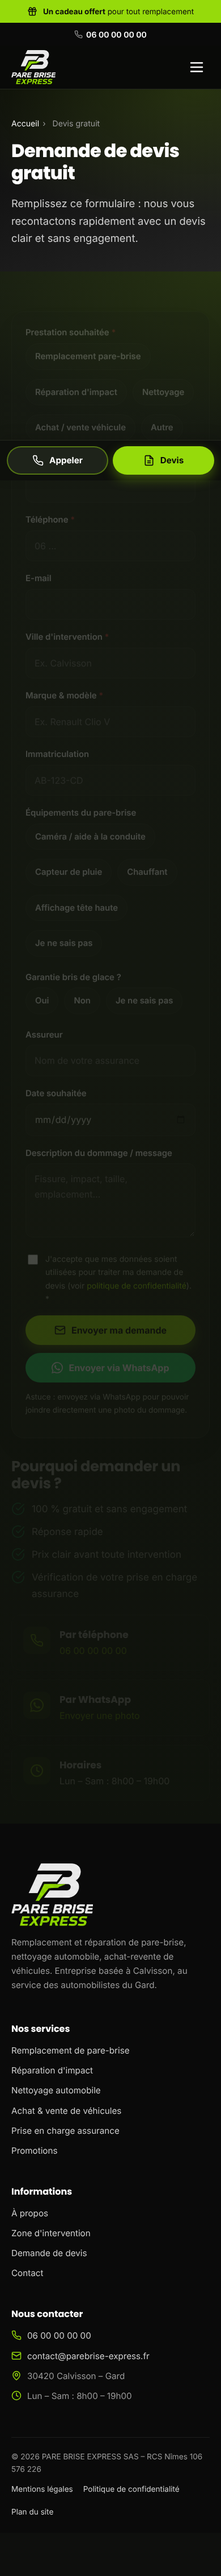
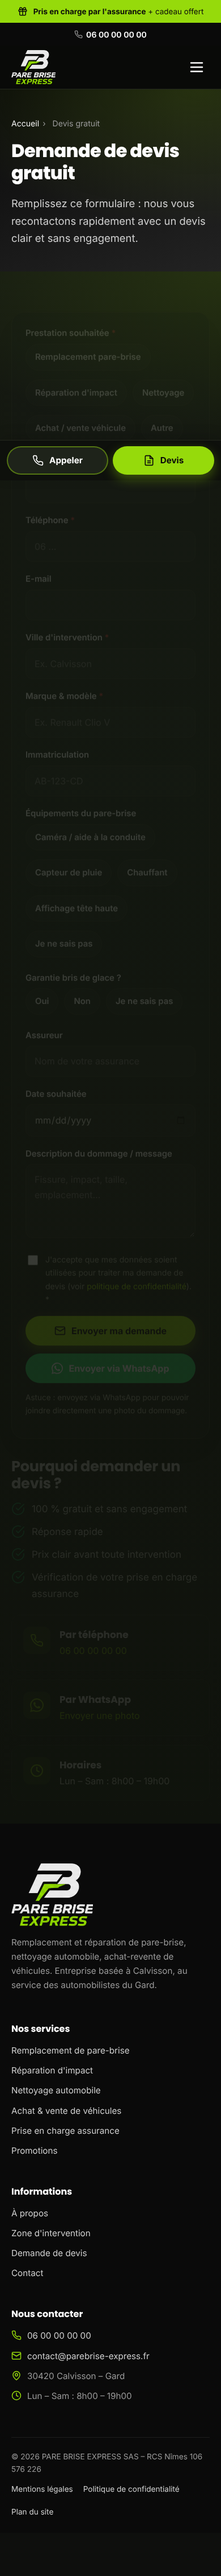
Mettre en avant la prise en charge assurance et afficher la vidéo sur mobile
Bandeau du haut « pris en charge par votre assurance + cadeau offert »,
bloc « Toutes assurances acceptées » (noms d'assureurs en texte avec
mention d'indépendance) sur l'accueil, Remplacement, Assurance et
Promotions. Sur mobile et tablette, la vidéo d'en-tête s'affiche en
grand au-dessus du texte au lieu d'être masquée par le voile.

Claude-Session: https://claude.ai/code/session_01UgdzWtsvjubcNTfK2R8s6y

diff --git a/index.html b/index.html
@@ -23,7 +23,7 @@
 </head>
 <body>
 <a class="skip-link" href="#contenu">Aller au contenu</a>
-<a class="promo-strip" href="promotions.html"><svg viewBox="0 0 24 24" fill="none" stroke="currentColor" stroke-width="2" stroke-linecap="round" stroke-linejoin="round" aria-hidden="true"><rect x="3" y="8" width="18" height="4" rx="1"/><path d="M12 8v13M19 12v7a2 2 0 0 1-2 2H7a2 2 0 0 1-2-2v-7"/><path d="M7.5 8a2.5 2.5 0 0 1 0-5C10 3 12 8 12 8s2-5 4.5-5a2.5 2.5 0 0 1 0 5"/></svg><span><strong>Un cadeau offert</strong> pour tout remplacement<span class="hide-xs"> de pare-brise</span></span><span class="promo-strip-cta">En profiter <svg viewBox="0 0 24 24" fill="none" stroke="currentColor" stroke-width="2" stroke-linecap="round" stroke-linejoin="round" aria-hidden="true"><path d="M5 12h14M12 5l7 7-7 7"/></svg></span></a>
+<a class="promo-strip" href="promotions.html"><svg viewBox="0 0 24 24" fill="none" stroke="currentColor" stroke-width="2" stroke-linecap="round" stroke-linejoin="round" aria-hidden="true"><rect x="3" y="8" width="18" height="4" rx="1"/><path d="M12 8v13M19 12v7a2 2 0 0 1-2 2H7a2 2 0 0 1-2-2v-7"/><path d="M7.5 8a2.5 2.5 0 0 1 0-5C10 3 12 8 12 8s2-5 4.5-5a2.5 2.5 0 0 1 0 5"/></svg><span class="hide-xs">Pare-brise <strong>pris en charge par votre assurance</strong> (garantie bris de glace) + <strong>un cadeau offert</strong></span><span class="show-xs"><strong>Pris en charge par l'assurance</strong> + cadeau offert</span><span class="promo-strip-cta">En profiter <svg viewBox="0 0 24 24" fill="none" stroke="currentColor" stroke-width="2" stroke-linecap="round" stroke-linejoin="round" aria-hidden="true"><path d="M5 12h14M12 5l7 7-7 7"/></svg></span></a>
 <div class="topbar"><div class="container">
   <span class="hide-sm"><svg viewBox="0 0 24 24" fill="none" stroke="currentColor" stroke-width="2" stroke-linecap="round" stroke-linejoin="round" aria-hidden="true"><path d="M20 10c0 6-8 12-8 12s-8-6-8-12a8 8 0 0 1 16 0z"/><circle cx="12" cy="10" r="3"/></svg> Basé à Calvisson (30420) · Intervention dans tout le Gard</span>
   <span><svg viewBox="0 0 24 24" fill="none" stroke="currentColor" stroke-width="2" stroke-linecap="round" stroke-linejoin="round" aria-hidden="true"><path d="M22 16.9v3a2 2 0 0 1-2.2 2 19.8 19.8 0 0 1-8.6-3.1 19.5 19.5 0 0 1-6-6A19.8 19.8 0 0 1 2.1 4.2 2 2 0 0 1 4.1 2h3a2 2 0 0 1 2 1.7c.1 1 .4 1.9.7 2.8a2 2 0 0 1-.5 2.1L8 9.9a16 16 0 0 0 6 6l1.3-1.3a2 2 0 0 1 2.1-.4c.9.3 1.8.6 2.8.7a2 2 0 0 1 1.7 2z"/></svg> <a href="tel:+33600000000">06 00 00 00 00</a> <span class="hide-sm">&nbsp;·&nbsp;Lun – Sam : 8h00 – 19h00</span></span>
@@ -78,7 +78,7 @@
 
 <section class="section section--promo"><div class="container"><div class="promo-band reveal">
   <span class="promo-ic"><svg viewBox="0 0 24 24" fill="none" stroke="currentColor" stroke-width="2" stroke-linecap="round" stroke-linejoin="round" aria-hidden="true"><rect x="3" y="8" width="18" height="4" rx="1"/><path d="M12 8v13M19 12v7a2 2 0 0 1-2 2H7a2 2 0 0 1-2-2v-7"/><path d="M7.5 8a2.5 2.5 0 0 1 0-5C10 3 12 8 12 8s2-5 4.5-5a2.5 2.5 0 0 1 0 5"/></svg></span>
-  <div><span class="eyebrow">Offre en cours</span><h2>Un cadeau offert pour le remplacement de votre pare-brise</h2><p>Faites remplacer votre pare-brise chez PARE BRISE EXPRESS et repartez avec un cadeau. Demandez-nous le cadeau du moment !</p></div>
+  <div><span class="eyebrow">Offre en cours</span><h2>Un cadeau offert pour le remplacement de votre pare-brise</h2><p>Votre remplacement de pare-brise est généralement pris en charge par votre assurance bris de glace, et PARE BRISE EXPRESS vous offre un cadeau en plus. Demandez-nous le cadeau du moment !</p></div>
   <div class="btn-row"><a class="btn btn--accent" href="promotions.html"><svg viewBox="0 0 24 24" fill="none" stroke="currentColor" stroke-width="2" stroke-linecap="round" stroke-linejoin="round" aria-hidden="true"><rect x="3" y="8" width="18" height="4" rx="1"/><path d="M12 8v13M19 12v7a2 2 0 0 1-2 2H7a2 2 0 0 1-2-2v-7"/><path d="M7.5 8a2.5 2.5 0 0 1 0-5C10 3 12 8 12 8s2-5 4.5-5a2.5 2.5 0 0 1 0 5"/></svg> Voir l'offre</a><a class="btn btn--ghost" href="devis.html">Devis gratuit</a></div>
 </div></div></section>
 
@@ -93,6 +93,21 @@
   <span class="ic"><svg viewBox="0 0 24 24" fill="none" stroke="currentColor" stroke-width="2" stroke-linecap="round" stroke-linejoin="round" aria-hidden="true"><path d="m12 3-1.9 5.8a2 2 0 0 1-1.3 1.3L3 12l5.8 1.9a2 2 0 0 1 1.3 1.3L12 21l1.9-5.8a2 2 0 0 1 1.3-1.3L21 12l-5.8-1.9a2 2 0 0 1-1.3-1.3z"/></svg></span><h3>Nettoyage automobile</h3><p>Nettoyage intérieur et extérieur, shampoing des sièges, rénovation : votre véhicule comme neuf.</p><span class="more">En savoir plus <svg viewBox="0 0 24 24" fill="none" stroke="currentColor" stroke-width="2" stroke-linecap="round" stroke-linejoin="round" aria-hidden="true"><path d="M5 12h14M12 5l7 7-7 7"/></svg></span></a><a class="card reveal" href="achat-vente-vehicules.html" style="text-decoration:none;color:inherit">
   
   <span class="ic"><svg viewBox="0 0 24 24" fill="none" stroke="currentColor" stroke-width="2" stroke-linecap="round" stroke-linejoin="round" aria-hidden="true"><path d="M19 17h2c.6 0 1-.4 1-1v-3c0-.9-.7-1.7-1.5-1.9C18.7 10.6 16 10 16 10s-1.3-1.4-2.2-2.3c-.5-.4-1.1-.7-1.8-.7H5c-.6 0-1.1.4-1.4.9l-1.4 2.9A3.7 3.7 0 0 0 2 12v4c0 .6.4 1 1 1h2"/><circle cx="7" cy="17" r="2"/><path d="M9 17h6"/><circle cx="17" cy="17" r="2"/></svg></span><h3>Achat & vente de véhicules</h3><p>Achat, reprise et revente de véhicules d'occasion, et mise à disposition de véhicules.</p><span class="more">En savoir plus <svg viewBox="0 0 24 24" fill="none" stroke="currentColor" stroke-width="2" stroke-linecap="round" stroke-linejoin="round" aria-hidden="true"><path d="M5 12h14M12 5l7 7-7 7"/></svg></span></a></div>
+</div></section>
+
+<section class="section"><div class="container">
+  <div class="assur-band reveal">
+    <div class="assur-head">
+      <span class="eyebrow">Toutes assurances acceptées</span>
+      <h2>Pris en charge par votre assurance</h2>
+      <p>Avec la garantie <strong>bris de glace</strong> de votre contrat auto, le remplacement de votre pare-brise est généralement pris en charge par votre assureur (hors franchise éventuelle prévue au contrat). Vous êtes libre de choisir votre réparateur : nous travaillons avec toutes les compagnies et nous gérons le dossier pour vous.</p>
+      <div class="btn-row"><a class="btn btn--accent" href="assurance.html"><svg viewBox="0 0 24 24" fill="none" stroke="currentColor" stroke-width="2" stroke-linecap="round" stroke-linejoin="round" aria-hidden="true"><path d="M12 22s8-4 8-10V5l-8-3-8 3v7c0 6 8 10 8 10z"/><path d="m9 12 2 2 4-4"/></svg> Comment ça marche</a><a class="btn btn--ghost" href="devis.html">Devis gratuit</a></div>
+    </div>
+    <div>
+      <div class="insurers"><span class="insurer">AXA</span><span class="insurer">Allianz</span><span class="insurer">MAAF</span><span class="insurer">MACIF</span><span class="insurer">MAIF</span><span class="insurer">Matmut</span><span class="insurer">MMA</span><span class="insurer">GMF</span><span class="insurer">Groupama</span><span class="insurer">Generali</span><span class="insurer">Pacifica</span><span class="insurer">Direct Assurance</span><span class="insurer">L'olivier Assurance</span><span class="insurer">Leocare</span><span class="insurer insurer--more">+ toutes les autres</span></div>
+      <p class="insurer-note">Noms cités à titre indicatif. PARE BRISE EXPRESS est un réparateur indépendant, non affilié à ces compagnies d'assurance.</p>
+    </div>
+  </div>
 </div></section>
 
 <section class="section section--dark"><div class="container">

diff --git a/promotions.html b/promotions.html
@@ -23,7 +23,7 @@
 </head>
 <body>
 <a class="skip-link" href="#contenu">Aller au contenu</a>
-<a class="promo-strip" href="promotions.html"><svg viewBox="0 0 24 24" fill="none" stroke="currentColor" stroke-width="2" stroke-linecap="round" stroke-linejoin="round" aria-hidden="true"><rect x="3" y="8" width="18" height="4" rx="1"/><path d="M12 8v13M19 12v7a2 2 0 0 1-2 2H7a2 2 0 0 1-2-2v-7"/><path d="M7.5 8a2.5 2.5 0 0 1 0-5C10 3 12 8 12 8s2-5 4.5-5a2.5 2.5 0 0 1 0 5"/></svg><span><strong>Un cadeau offert</strong> pour tout remplacement<span class="hide-xs"> de pare-brise</span></span><span class="promo-strip-cta">En profiter <svg viewBox="0 0 24 24" fill="none" stroke="currentColor" stroke-width="2" stroke-linecap="round" stroke-linejoin="round" aria-hidden="true"><path d="M5 12h14M12 5l7 7-7 7"/></svg></span></a>
+<a class="promo-strip" href="promotions.html"><svg viewBox="0 0 24 24" fill="none" stroke="currentColor" stroke-width="2" stroke-linecap="round" stroke-linejoin="round" aria-hidden="true"><rect x="3" y="8" width="18" height="4" rx="1"/><path d="M12 8v13M19 12v7a2 2 0 0 1-2 2H7a2 2 0 0 1-2-2v-7"/><path d="M7.5 8a2.5 2.5 0 0 1 0-5C10 3 12 8 12 8s2-5 4.5-5a2.5 2.5 0 0 1 0 5"/></svg><span class="hide-xs">Pare-brise <strong>pris en charge par votre assurance</strong> (garantie bris de glace) + <strong>un cadeau offert</strong></span><span class="show-xs"><strong>Pris en charge par l'assurance</strong> + cadeau offert</span><span class="promo-strip-cta">En profiter <svg viewBox="0 0 24 24" fill="none" stroke="currentColor" stroke-width="2" stroke-linecap="round" stroke-linejoin="round" aria-hidden="true"><path d="M5 12h14M12 5l7 7-7 7"/></svg></span></a>
 <div class="topbar"><div class="container">
   <span class="hide-sm"><svg viewBox="0 0 24 24" fill="none" stroke="currentColor" stroke-width="2" stroke-linecap="round" stroke-linejoin="round" aria-hidden="true"><path d="M20 10c0 6-8 12-8 12s-8-6-8-12a8 8 0 0 1 16 0z"/><circle cx="12" cy="10" r="3"/></svg> Basé à Calvisson (30420) · Intervention dans tout le Gard</span>
   <span><svg viewBox="0 0 24 24" fill="none" stroke="currentColor" stroke-width="2" stroke-linecap="round" stroke-linejoin="round" aria-hidden="true"><path d="M22 16.9v3a2 2 0 0 1-2.2 2 19.8 19.8 0 0 1-8.6-3.1 19.5 19.5 0 0 1-6-6A19.8 19.8 0 0 1 2.1 4.2 2 2 0 0 1 4.1 2h3a2 2 0 0 1 2 1.7c.1 1 .4 1.9.7 2.8a2 2 0 0 1-.5 2.1L8 9.9a16 16 0 0 0 6 6l1.3-1.3a2 2 0 0 1 2.1-.4c.9.3 1.8.6 2.8.7a2 2 0 0 1 1.7 2z"/></svg> <a href="tel:+33600000000">06 00 00 00 00</a> <span class="hide-sm">&nbsp;·&nbsp;Lun – Sam : 8h00 – 19h00</span></span>
@@ -50,7 +50,7 @@
 <section class="page-hero"><div class="container">
   <nav class="breadcrumb" aria-label="Fil d'Ariane"><a href="index.html">Accueil</a><span>›</span><span>Promotions</span></nav>
   <h1>Un cadeau offert pour le remplacement de votre pare-brise</h1>
-  <p>Votre pare-brise est fissuré ou impacté ? Faites-le remplacer chez PARE BRISE EXPRESS et repartez avec un cadeau.</p>
+  <p>Votre pare-brise est fissuré ou impacté ? Le remplacement est généralement pris en charge par votre assurance bris de glace, et PARE BRISE EXPRESS vous offre un cadeau en plus.</p>
   <div class="btn-row"><a class="btn btn--accent" href="devis.html"><svg viewBox="0 0 24 24" fill="none" stroke="currentColor" stroke-width="2" stroke-linecap="round" stroke-linejoin="round" aria-hidden="true"><path d="M14 2H6a2 2 0 0 0-2 2v16a2 2 0 0 0 2 2h12a2 2 0 0 0 2-2V8z"/><path d="M14 2v6h6M9 13h6M9 17h6"/></svg> Devis gratuit</a><a class="btn btn--ghost" href="tel:+33600000000"><svg viewBox="0 0 24 24" fill="none" stroke="currentColor" stroke-width="2" stroke-linecap="round" stroke-linejoin="round" aria-hidden="true"><path d="M22 16.9v3a2 2 0 0 1-2.2 2 19.8 19.8 0 0 1-8.6-3.1 19.5 19.5 0 0 1-6-6A19.8 19.8 0 0 1 2.1 4.2 2 2 0 0 1 4.1 2h3a2 2 0 0 1 2 1.7c.1 1 .4 1.9.7 2.8a2 2 0 0 1-.5 2.1L8 9.9a16 16 0 0 0 6 6l1.3-1.3a2 2 0 0 1 2.1-.4c.9.3 1.8.6 2.8.7a2 2 0 0 1 1.7 2z"/></svg> 06 00 00 00 00</a></div>
 </div></section>
 <section class="section"><div class="container">
@@ -77,6 +77,20 @@
       <li><svg viewBox="0 0 24 24" fill="none" stroke="currentColor" stroke-width="2" stroke-linecap="round" stroke-linejoin="round" aria-hidden="true"><path d="M22 11.1V12a10 10 0 1 1-5.9-9.1"/><path d="M22 4 12 14l-3-3"/></svg><span>Offre non cumulable avec une autre promotion en cours, dans la limite des stocks disponibles.</span></li>
       <li><svg viewBox="0 0 24 24" fill="none" stroke="currentColor" stroke-width="2" stroke-linecap="round" stroke-linejoin="round" aria-hidden="true"><path d="M22 11.1V12a10 10 0 1 1-5.9-9.1"/><path d="M22 4 12 14l-3-3"/></svg><span>Le cadeau ne peut pas être échangé contre sa valeur en espèces.</span></li>
     </ul>
+  </div>
+</div></section>
+<section class="section"><div class="container">
+  <div class="assur-band reveal">
+    <div class="assur-head">
+      <span class="eyebrow">Toutes assurances acceptées</span>
+      <h2>Pris en charge par votre assurance</h2>
+      <p>Avec la garantie <strong>bris de glace</strong> de votre contrat auto, le remplacement de votre pare-brise est généralement pris en charge par votre assureur (hors franchise éventuelle prévue au contrat). Vous êtes libre de choisir votre réparateur : nous travaillons avec toutes les compagnies et nous gérons le dossier pour vous.</p>
+      <div class="btn-row"><a class="btn btn--accent" href="assurance.html"><svg viewBox="0 0 24 24" fill="none" stroke="currentColor" stroke-width="2" stroke-linecap="round" stroke-linejoin="round" aria-hidden="true"><path d="M12 22s8-4 8-10V5l-8-3-8 3v7c0 6 8 10 8 10z"/><path d="m9 12 2 2 4-4"/></svg> Comment ça marche</a><a class="btn btn--ghost" href="devis.html">Devis gratuit</a></div>
+    </div>
+    <div>
+      <div class="insurers"><span class="insurer">AXA</span><span class="insurer">Allianz</span><span class="insurer">MAAF</span><span class="insurer">MACIF</span><span class="insurer">MAIF</span><span class="insurer">Matmut</span><span class="insurer">MMA</span><span class="insurer">GMF</span><span class="insurer">Groupama</span><span class="insurer">Generali</span><span class="insurer">Pacifica</span><span class="insurer">Direct Assurance</span><span class="insurer">L'olivier Assurance</span><span class="insurer">Leocare</span><span class="insurer insurer--more">+ toutes les autres</span></div>
+      <p class="insurer-note">Noms cités à titre indicatif. PARE BRISE EXPRESS est un réparateur indépendant, non affilié à ces compagnies d'assurance.</p>
+    </div>
   </div>
 </div></section>
 <section class="section section--soft"><div class="container">

diff --git a/remplacement-pare-brise.html b/remplacement-pare-brise.html
@@ -23,7 +23,7 @@
 </head>
 <body>
 <a class="skip-link" href="#contenu">Aller au contenu</a>
-<a class="promo-strip" href="promotions.html"><svg viewBox="0 0 24 24" fill="none" stroke="currentColor" stroke-width="2" stroke-linecap="round" stroke-linejoin="round" aria-hidden="true"><rect x="3" y="8" width="18" height="4" rx="1"/><path d="M12 8v13M19 12v7a2 2 0 0 1-2 2H7a2 2 0 0 1-2-2v-7"/><path d="M7.5 8a2.5 2.5 0 0 1 0-5C10 3 12 8 12 8s2-5 4.5-5a2.5 2.5 0 0 1 0 5"/></svg><span><strong>Un cadeau offert</strong> pour tout remplacement<span class="hide-xs"> de pare-brise</span></span><span class="promo-strip-cta">En profiter <svg viewBox="0 0 24 24" fill="none" stroke="currentColor" stroke-width="2" stroke-linecap="round" stroke-linejoin="round" aria-hidden="true"><path d="M5 12h14M12 5l7 7-7 7"/></svg></span></a>
+<a class="promo-strip" href="promotions.html"><svg viewBox="0 0 24 24" fill="none" stroke="currentColor" stroke-width="2" stroke-linecap="round" stroke-linejoin="round" aria-hidden="true"><rect x="3" y="8" width="18" height="4" rx="1"/><path d="M12 8v13M19 12v7a2 2 0 0 1-2 2H7a2 2 0 0 1-2-2v-7"/><path d="M7.5 8a2.5 2.5 0 0 1 0-5C10 3 12 8 12 8s2-5 4.5-5a2.5 2.5 0 0 1 0 5"/></svg><span class="hide-xs">Pare-brise <strong>pris en charge par votre assurance</strong> (garantie bris de glace) + <strong>un cadeau offert</strong></span><span class="show-xs"><strong>Pris en charge par l'assurance</strong> + cadeau offert</span><span class="promo-strip-cta">En profiter <svg viewBox="0 0 24 24" fill="none" stroke="currentColor" stroke-width="2" stroke-linecap="round" stroke-linejoin="round" aria-hidden="true"><path d="M5 12h14M12 5l7 7-7 7"/></svg></span></a>
 <div class="topbar"><div class="container">
   <span class="hide-sm"><svg viewBox="0 0 24 24" fill="none" stroke="currentColor" stroke-width="2" stroke-linecap="round" stroke-linejoin="round" aria-hidden="true"><path d="M20 10c0 6-8 12-8 12s-8-6-8-12a8 8 0 0 1 16 0z"/><circle cx="12" cy="10" r="3"/></svg> Basé à Calvisson (30420) · Intervention dans tout le Gard</span>
   <span><svg viewBox="0 0 24 24" fill="none" stroke="currentColor" stroke-width="2" stroke-linecap="round" stroke-linejoin="round" aria-hidden="true"><path d="M22 16.9v3a2 2 0 0 1-2.2 2 19.8 19.8 0 0 1-8.6-3.1 19.5 19.5 0 0 1-6-6A19.8 19.8 0 0 1 2.1 4.2 2 2 0 0 1 4.1 2h3a2 2 0 0 1 2 1.7c.1 1 .4 1.9.7 2.8a2 2 0 0 1-.5 2.1L8 9.9a16 16 0 0 0 6 6l1.3-1.3a2 2 0 0 1 2.1-.4c.9.3 1.8.6 2.8.7a2 2 0 0 1 1.7 2z"/></svg> <a href="tel:+33600000000">06 00 00 00 00</a> <span class="hide-sm">&nbsp;·&nbsp;Lun – Sam : 8h00 – 19h00</span></span>
@@ -100,6 +100,20 @@
     <div class="card"><span class="ic"><svg viewBox="0 0 24 24" fill="none" stroke="currentColor" stroke-width="2" stroke-linecap="round" stroke-linejoin="round" aria-hidden="true"><path d="M12 22a7 7 0 0 0 7-7c0-2-1-3.9-3-5.5s-3.5-4-4-6.5c-.5 2.5-2 4.9-4 6.5S5 13 5 15a7 7 0 0 0 7 7z"/></svg></span><h3>Capteur de pluie</h3><p style="margin:0">Repositionné avec un gel neuf pour un fonctionnement optimal.</p></div>
     <div class="card"><span class="ic"><svg viewBox="0 0 24 24" fill="none" stroke="currentColor" stroke-width="2" stroke-linecap="round" stroke-linejoin="round" aria-hidden="true"><path d="M2 12s3-7 10-7 10 7 10 7-3 7-10 7-10-7-10-7z"/><circle cx="12" cy="12" r="3"/></svg></span><h3>Affichage tête haute</h3><p style="margin:0">Vitrage spécifique HUD pour un affichage net.</p></div>
     <div class="card"><span class="ic"><svg viewBox="0 0 24 24" fill="none" stroke="currentColor" stroke-width="2" stroke-linecap="round" stroke-linejoin="round" aria-hidden="true"><path d="m12 3-1.9 5.8a2 2 0 0 1-1.3 1.3L3 12l5.8 1.9a2 2 0 0 1 1.3 1.3L12 21l1.9-5.8a2 2 0 0 1 1.3-1.3L21 12l-5.8-1.9a2 2 0 0 1-1.3-1.3z"/></svg></span><h3>Chauffant / acoustique</h3><p style="margin:0">Options d'origine respectées à l'identique.</p></div>
+  </div>
+</div></section>
+<section class="section"><div class="container">
+  <div class="assur-band reveal">
+    <div class="assur-head">
+      <span class="eyebrow">Toutes assurances acceptées</span>
+      <h2>Pris en charge par votre assurance</h2>
+      <p>Avec la garantie <strong>bris de glace</strong> de votre contrat auto, le remplacement de votre pare-brise est généralement pris en charge par votre assureur (hors franchise éventuelle prévue au contrat). Vous êtes libre de choisir votre réparateur : nous travaillons avec toutes les compagnies et nous gérons le dossier pour vous.</p>
+      <div class="btn-row"><a class="btn btn--accent" href="assurance.html"><svg viewBox="0 0 24 24" fill="none" stroke="currentColor" stroke-width="2" stroke-linecap="round" stroke-linejoin="round" aria-hidden="true"><path d="M12 22s8-4 8-10V5l-8-3-8 3v7c0 6 8 10 8 10z"/><path d="m9 12 2 2 4-4"/></svg> Comment ça marche</a><a class="btn btn--ghost" href="devis.html">Devis gratuit</a></div>
+    </div>
+    <div>
+      <div class="insurers"><span class="insurer">AXA</span><span class="insurer">Allianz</span><span class="insurer">MAAF</span><span class="insurer">MACIF</span><span class="insurer">MAIF</span><span class="insurer">Matmut</span><span class="insurer">MMA</span><span class="insurer">GMF</span><span class="insurer">Groupama</span><span class="insurer">Generali</span><span class="insurer">Pacifica</span><span class="insurer">Direct Assurance</span><span class="insurer">L'olivier Assurance</span><span class="insurer">Leocare</span><span class="insurer insurer--more">+ toutes les autres</span></div>
+      <p class="insurer-note">Noms cités à titre indicatif. PARE BRISE EXPRESS est un réparateur indépendant, non affilié à ces compagnies d'assurance.</p>
+    </div>
   </div>
 </div></section>
 <section class="section section--soft"><div class="container">

diff --git a/assurance.html b/assurance.html
@@ -23,7 +23,7 @@
 </head>
 <body>
 <a class="skip-link" href="#contenu">Aller au contenu</a>
-<a class="promo-strip" href="promotions.html"><svg viewBox="0 0 24 24" fill="none" stroke="currentColor" stroke-width="2" stroke-linecap="round" stroke-linejoin="round" aria-hidden="true"><rect x="3" y="8" width="18" height="4" rx="1"/><path d="M12 8v13M19 12v7a2 2 0 0 1-2 2H7a2 2 0 0 1-2-2v-7"/><path d="M7.5 8a2.5 2.5 0 0 1 0-5C10 3 12 8 12 8s2-5 4.5-5a2.5 2.5 0 0 1 0 5"/></svg><span><strong>Un cadeau offert</strong> pour tout remplacement<span class="hide-xs"> de pare-brise</span></span><span class="promo-strip-cta">En profiter <svg viewBox="0 0 24 24" fill="none" stroke="currentColor" stroke-width="2" stroke-linecap="round" stroke-linejoin="round" aria-hidden="true"><path d="M5 12h14M12 5l7 7-7 7"/></svg></span></a>
+<a class="promo-strip" href="promotions.html"><svg viewBox="0 0 24 24" fill="none" stroke="currentColor" stroke-width="2" stroke-linecap="round" stroke-linejoin="round" aria-hidden="true"><rect x="3" y="8" width="18" height="4" rx="1"/><path d="M12 8v13M19 12v7a2 2 0 0 1-2 2H7a2 2 0 0 1-2-2v-7"/><path d="M7.5 8a2.5 2.5 0 0 1 0-5C10 3 12 8 12 8s2-5 4.5-5a2.5 2.5 0 0 1 0 5"/></svg><span class="hide-xs">Pare-brise <strong>pris en charge par votre assurance</strong> (garantie bris de glace) + <strong>un cadeau offert</strong></span><span class="show-xs"><strong>Pris en charge par l'assurance</strong> + cadeau offert</span><span class="promo-strip-cta">En profiter <svg viewBox="0 0 24 24" fill="none" stroke="currentColor" stroke-width="2" stroke-linecap="round" stroke-linejoin="round" aria-hidden="true"><path d="M5 12h14M12 5l7 7-7 7"/></svg></span></a>
 <div class="topbar"><div class="container">
   <span class="hide-sm"><svg viewBox="0 0 24 24" fill="none" stroke="currentColor" stroke-width="2" stroke-linecap="round" stroke-linejoin="round" aria-hidden="true"><path d="M20 10c0 6-8 12-8 12s-8-6-8-12a8 8 0 0 1 16 0z"/><circle cx="12" cy="10" r="3"/></svg> Basé à Calvisson (30420) · Intervention dans tout le Gard</span>
   <span><svg viewBox="0 0 24 24" fill="none" stroke="currentColor" stroke-width="2" stroke-linecap="round" stroke-linejoin="round" aria-hidden="true"><path d="M22 16.9v3a2 2 0 0 1-2.2 2 19.8 19.8 0 0 1-8.6-3.1 19.5 19.5 0 0 1-6-6A19.8 19.8 0 0 1 2.1 4.2 2 2 0 0 1 4.1 2h3a2 2 0 0 1 2 1.7c.1 1 .4 1.9.7 2.8a2 2 0 0 1-.5 2.1L8 9.9a16 16 0 0 0 6 6l1.3-1.3a2 2 0 0 1 2.1-.4c.9.3 1.8.6 2.8.7a2 2 0 0 1 1.7 2z"/></svg> <a href="tel:+33600000000">06 00 00 00 00</a> <span class="hide-sm">&nbsp;·&nbsp;Lun – Sam : 8h00 – 19h00</span></span>
@@ -78,6 +78,20 @@
     <div class="step reveal"><h3>Vérification</h3><p>Nous vérifions votre garantie bris de glace et la franchise éventuelle.</p></div>
     <div class="step reveal"><h3>Intervention</h3><p>Remplacement ou réparation au lieu et à l'heure convenus.</p></div>
     <div class="step reveal"><h3>Envoi du dossier</h3><p>Vous signez le document de cession et nous le transmettons à l'assureur.</p></div>
+  </div>
+</div></section>
+<section class="section section--soft"><div class="container">
+  <div class="assur-band reveal">
+    <div class="assur-head">
+      <span class="eyebrow">Toutes assurances acceptées</span>
+      <h2>Pris en charge par votre assurance</h2>
+      <p>Avec la garantie <strong>bris de glace</strong> de votre contrat auto, le remplacement de votre pare-brise est généralement pris en charge par votre assureur (hors franchise éventuelle prévue au contrat). Vous êtes libre de choisir votre réparateur : nous travaillons avec toutes les compagnies et nous gérons le dossier pour vous.</p>
+      <div class="btn-row"><a class="btn btn--accent" href="assurance.html"><svg viewBox="0 0 24 24" fill="none" stroke="currentColor" stroke-width="2" stroke-linecap="round" stroke-linejoin="round" aria-hidden="true"><path d="M12 22s8-4 8-10V5l-8-3-8 3v7c0 6 8 10 8 10z"/><path d="m9 12 2 2 4-4"/></svg> Comment ça marche</a><a class="btn btn--ghost" href="devis.html">Devis gratuit</a></div>
+    </div>
+    <div>
+      <div class="insurers"><span class="insurer">AXA</span><span class="insurer">Allianz</span><span class="insurer">MAAF</span><span class="insurer">MACIF</span><span class="insurer">MAIF</span><span class="insurer">Matmut</span><span class="insurer">MMA</span><span class="insurer">GMF</span><span class="insurer">Groupama</span><span class="insurer">Generali</span><span class="insurer">Pacifica</span><span class="insurer">Direct Assurance</span><span class="insurer">L'olivier Assurance</span><span class="insurer">Leocare</span><span class="insurer insurer--more">+ toutes les autres</span></div>
+      <p class="insurer-note">Noms cités à titre indicatif. PARE BRISE EXPRESS est un réparateur indépendant, non affilié à ces compagnies d'assurance.</p>
+    </div>
   </div>
 </div></section>
 <section class="section section--soft"><div class="container">

diff --git a/404.html b/404.html
@@ -22,7 +22,7 @@
 </head>
 <body>
 <a class="skip-link" href="#contenu">Aller au contenu</a>
-<a class="promo-strip" href="promotions.html"><svg viewBox="0 0 24 24" fill="none" stroke="currentColor" stroke-width="2" stroke-linecap="round" stroke-linejoin="round" aria-hidden="true"><rect x="3" y="8" width="18" height="4" rx="1"/><path d="M12 8v13M19 12v7a2 2 0 0 1-2 2H7a2 2 0 0 1-2-2v-7"/><path d="M7.5 8a2.5 2.5 0 0 1 0-5C10 3 12 8 12 8s2-5 4.5-5a2.5 2.5 0 0 1 0 5"/></svg><span><strong>Un cadeau offert</strong> pour tout remplacement<span class="hide-xs"> de pare-brise</span></span><span class="promo-strip-cta">En profiter <svg viewBox="0 0 24 24" fill="none" stroke="currentColor" stroke-width="2" stroke-linecap="round" stroke-linejoin="round" aria-hidden="true"><path d="M5 12h14M12 5l7 7-7 7"/></svg></span></a>
+<a class="promo-strip" href="promotions.html"><svg viewBox="0 0 24 24" fill="none" stroke="currentColor" stroke-width="2" stroke-linecap="round" stroke-linejoin="round" aria-hidden="true"><rect x="3" y="8" width="18" height="4" rx="1"/><path d="M12 8v13M19 12v7a2 2 0 0 1-2 2H7a2 2 0 0 1-2-2v-7"/><path d="M7.5 8a2.5 2.5 0 0 1 0-5C10 3 12 8 12 8s2-5 4.5-5a2.5 2.5 0 0 1 0 5"/></svg><span class="hide-xs">Pare-brise <strong>pris en charge par votre assurance</strong> (garantie bris de glace) + <strong>un cadeau offert</strong></span><span class="show-xs"><strong>Pris en charge par l'assurance</strong> + cadeau offert</span><span class="promo-strip-cta">En profiter <svg viewBox="0 0 24 24" fill="none" stroke="currentColor" stroke-width="2" stroke-linecap="round" stroke-linejoin="round" aria-hidden="true"><path d="M5 12h14M12 5l7 7-7 7"/></svg></span></a>
 <div class="topbar"><div class="container">
   <span class="hide-sm"><svg viewBox="0 0 24 24" fill="none" stroke="currentColor" stroke-width="2" stroke-linecap="round" stroke-linejoin="round" aria-hidden="true"><path d="M20 10c0 6-8 12-8 12s-8-6-8-12a8 8 0 0 1 16 0z"/><circle cx="12" cy="10" r="3"/></svg> Basé à Calvisson (30420) · Intervention dans tout le Gard</span>
   <span><svg viewBox="0 0 24 24" fill="none" stroke="currentColor" stroke-width="2" stroke-linecap="round" stroke-linejoin="round" aria-hidden="true"><path d="M22 16.9v3a2 2 0 0 1-2.2 2 19.8 19.8 0 0 1-8.6-3.1 19.5 19.5 0 0 1-6-6A19.8 19.8 0 0 1 2.1 4.2 2 2 0 0 1 4.1 2h3a2 2 0 0 1 2 1.7c.1 1 .4 1.9.7 2.8a2 2 0 0 1-.5 2.1L8 9.9a16 16 0 0 0 6 6l1.3-1.3a2 2 0 0 1 2.1-.4c.9.3 1.8.6 2.8.7a2 2 0 0 1 1.7 2z"/></svg> <a href="tel:+33600000000">06 00 00 00 00</a> <span class="hide-sm">&nbsp;·&nbsp;Lun – Sam : 8h00 – 19h00</span></span>

diff --git a/a-propos.html b/a-propos.html
@@ -22,7 +22,7 @@
 </head>
 <body>
 <a class="skip-link" href="#contenu">Aller au contenu</a>
-<a class="promo-strip" href="promotions.html"><svg viewBox="0 0 24 24" fill="none" stroke="currentColor" stroke-width="2" stroke-linecap="round" stroke-linejoin="round" aria-hidden="true"><rect x="3" y="8" width="18" height="4" rx="1"/><path d="M12 8v13M19 12v7a2 2 0 0 1-2 2H7a2 2 0 0 1-2-2v-7"/><path d="M7.5 8a2.5 2.5 0 0 1 0-5C10 3 12 8 12 8s2-5 4.5-5a2.5 2.5 0 0 1 0 5"/></svg><span><strong>Un cadeau offert</strong> pour tout remplacement<span class="hide-xs"> de pare-brise</span></span><span class="promo-strip-cta">En profiter <svg viewBox="0 0 24 24" fill="none" stroke="currentColor" stroke-width="2" stroke-linecap="round" stroke-linejoin="round" aria-hidden="true"><path d="M5 12h14M12 5l7 7-7 7"/></svg></span></a>
+<a class="promo-strip" href="promotions.html"><svg viewBox="0 0 24 24" fill="none" stroke="currentColor" stroke-width="2" stroke-linecap="round" stroke-linejoin="round" aria-hidden="true"><rect x="3" y="8" width="18" height="4" rx="1"/><path d="M12 8v13M19 12v7a2 2 0 0 1-2 2H7a2 2 0 0 1-2-2v-7"/><path d="M7.5 8a2.5 2.5 0 0 1 0-5C10 3 12 8 12 8s2-5 4.5-5a2.5 2.5 0 0 1 0 5"/></svg><span class="hide-xs">Pare-brise <strong>pris en charge par votre assurance</strong> (garantie bris de glace) + <strong>un cadeau offert</strong></span><span class="show-xs"><strong>Pris en charge par l'assurance</strong> + cadeau offert</span><span class="promo-strip-cta">En profiter <svg viewBox="0 0 24 24" fill="none" stroke="currentColor" stroke-width="2" stroke-linecap="round" stroke-linejoin="round" aria-hidden="true"><path d="M5 12h14M12 5l7 7-7 7"/></svg></span></a>
 <div class="topbar"><div class="container">
   <span class="hide-sm"><svg viewBox="0 0 24 24" fill="none" stroke="currentColor" stroke-width="2" stroke-linecap="round" stroke-linejoin="round" aria-hidden="true"><path d="M20 10c0 6-8 12-8 12s-8-6-8-12a8 8 0 0 1 16 0z"/><circle cx="12" cy="10" r="3"/></svg> Basé à Calvisson (30420) · Intervention dans tout le Gard</span>
   <span><svg viewBox="0 0 24 24" fill="none" stroke="currentColor" stroke-width="2" stroke-linecap="round" stroke-linejoin="round" aria-hidden="true"><path d="M22 16.9v3a2 2 0 0 1-2.2 2 19.8 19.8 0 0 1-8.6-3.1 19.5 19.5 0 0 1-6-6A19.8 19.8 0 0 1 2.1 4.2 2 2 0 0 1 4.1 2h3a2 2 0 0 1 2 1.7c.1 1 .4 1.9.7 2.8a2 2 0 0 1-.5 2.1L8 9.9a16 16 0 0 0 6 6l1.3-1.3a2 2 0 0 1 2.1-.4c.9.3 1.8.6 2.8.7a2 2 0 0 1 1.7 2z"/></svg> <a href="tel:+33600000000">06 00 00 00 00</a> <span class="hide-sm">&nbsp;·&nbsp;Lun – Sam : 8h00 – 19h00</span></span>

diff --git a/achat-vente-vehicules.html b/achat-vente-vehicules.html
@@ -22,7 +22,7 @@
 </head>
 <body>
 <a class="skip-link" href="#contenu">Aller au contenu</a>
-<a class="promo-strip" href="promotions.html"><svg viewBox="0 0 24 24" fill="none" stroke="currentColor" stroke-width="2" stroke-linecap="round" stroke-linejoin="round" aria-hidden="true"><rect x="3" y="8" width="18" height="4" rx="1"/><path d="M12 8v13M19 12v7a2 2 0 0 1-2 2H7a2 2 0 0 1-2-2v-7"/><path d="M7.5 8a2.5 2.5 0 0 1 0-5C10 3 12 8 12 8s2-5 4.5-5a2.5 2.5 0 0 1 0 5"/></svg><span><strong>Un cadeau offert</strong> pour tout remplacement<span class="hide-xs"> de pare-brise</span></span><span class="promo-strip-cta">En profiter <svg viewBox="0 0 24 24" fill="none" stroke="currentColor" stroke-width="2" stroke-linecap="round" stroke-linejoin="round" aria-hidden="true"><path d="M5 12h14M12 5l7 7-7 7"/></svg></span></a>
+<a class="promo-strip" href="promotions.html"><svg viewBox="0 0 24 24" fill="none" stroke="currentColor" stroke-width="2" stroke-linecap="round" stroke-linejoin="round" aria-hidden="true"><rect x="3" y="8" width="18" height="4" rx="1"/><path d="M12 8v13M19 12v7a2 2 0 0 1-2 2H7a2 2 0 0 1-2-2v-7"/><path d="M7.5 8a2.5 2.5 0 0 1 0-5C10 3 12 8 12 8s2-5 4.5-5a2.5 2.5 0 0 1 0 5"/></svg><span class="hide-xs">Pare-brise <strong>pris en charge par votre assurance</strong> (garantie bris de glace) + <strong>un cadeau offert</strong></span><span class="show-xs"><strong>Pris en charge par l'assurance</strong> + cadeau offert</span><span class="promo-strip-cta">En profiter <svg viewBox="0 0 24 24" fill="none" stroke="currentColor" stroke-width="2" stroke-linecap="round" stroke-linejoin="round" aria-hidden="true"><path d="M5 12h14M12 5l7 7-7 7"/></svg></span></a>
 <div class="topbar"><div class="container">
   <span class="hide-sm"><svg viewBox="0 0 24 24" fill="none" stroke="currentColor" stroke-width="2" stroke-linecap="round" stroke-linejoin="round" aria-hidden="true"><path d="M20 10c0 6-8 12-8 12s-8-6-8-12a8 8 0 0 1 16 0z"/><circle cx="12" cy="10" r="3"/></svg> Basé à Calvisson (30420) · Intervention dans tout le Gard</span>
   <span><svg viewBox="0 0 24 24" fill="none" stroke="currentColor" stroke-width="2" stroke-linecap="round" stroke-linejoin="round" aria-hidden="true"><path d="M22 16.9v3a2 2 0 0 1-2.2 2 19.8 19.8 0 0 1-8.6-3.1 19.5 19.5 0 0 1-6-6A19.8 19.8 0 0 1 2.1 4.2 2 2 0 0 1 4.1 2h3a2 2 0 0 1 2 1.7c.1 1 .4 1.9.7 2.8a2 2 0 0 1-.5 2.1L8 9.9a16 16 0 0 0 6 6l1.3-1.3a2 2 0 0 1 2.1-.4c.9.3 1.8.6 2.8.7a2 2 0 0 1 1.7 2z"/></svg> <a href="tel:+33600000000">06 00 00 00 00</a> <span class="hide-sm">&nbsp;·&nbsp;Lun – Sam : 8h00 – 19h00</span></span>

diff --git a/confidentialite.html b/confidentialite.html
@@ -22,7 +22,7 @@
 </head>
 <body>
 <a class="skip-link" href="#contenu">Aller au contenu</a>
-<a class="promo-strip" href="promotions.html"><svg viewBox="0 0 24 24" fill="none" stroke="currentColor" stroke-width="2" stroke-linecap="round" stroke-linejoin="round" aria-hidden="true"><rect x="3" y="8" width="18" height="4" rx="1"/><path d="M12 8v13M19 12v7a2 2 0 0 1-2 2H7a2 2 0 0 1-2-2v-7"/><path d="M7.5 8a2.5 2.5 0 0 1 0-5C10 3 12 8 12 8s2-5 4.5-5a2.5 2.5 0 0 1 0 5"/></svg><span><strong>Un cadeau offert</strong> pour tout remplacement<span class="hide-xs"> de pare-brise</span></span><span class="promo-strip-cta">En profiter <svg viewBox="0 0 24 24" fill="none" stroke="currentColor" stroke-width="2" stroke-linecap="round" stroke-linejoin="round" aria-hidden="true"><path d="M5 12h14M12 5l7 7-7 7"/></svg></span></a>
+<a class="promo-strip" href="promotions.html"><svg viewBox="0 0 24 24" fill="none" stroke="currentColor" stroke-width="2" stroke-linecap="round" stroke-linejoin="round" aria-hidden="true"><rect x="3" y="8" width="18" height="4" rx="1"/><path d="M12 8v13M19 12v7a2 2 0 0 1-2 2H7a2 2 0 0 1-2-2v-7"/><path d="M7.5 8a2.5 2.5 0 0 1 0-5C10 3 12 8 12 8s2-5 4.5-5a2.5 2.5 0 0 1 0 5"/></svg><span class="hide-xs">Pare-brise <strong>pris en charge par votre assurance</strong> (garantie bris de glace) + <strong>un cadeau offert</strong></span><span class="show-xs"><strong>Pris en charge par l'assurance</strong> + cadeau offert</span><span class="promo-strip-cta">En profiter <svg viewBox="0 0 24 24" fill="none" stroke="currentColor" stroke-width="2" stroke-linecap="round" stroke-linejoin="round" aria-hidden="true"><path d="M5 12h14M12 5l7 7-7 7"/></svg></span></a>
 <div class="topbar"><div class="container">
   <span class="hide-sm"><svg viewBox="0 0 24 24" fill="none" stroke="currentColor" stroke-width="2" stroke-linecap="round" stroke-linejoin="round" aria-hidden="true"><path d="M20 10c0 6-8 12-8 12s-8-6-8-12a8 8 0 0 1 16 0z"/><circle cx="12" cy="10" r="3"/></svg> Basé à Calvisson (30420) · Intervention dans tout le Gard</span>
   <span><svg viewBox="0 0 24 24" fill="none" stroke="currentColor" stroke-width="2" stroke-linecap="round" stroke-linejoin="round" aria-hidden="true"><path d="M22 16.9v3a2 2 0 0 1-2.2 2 19.8 19.8 0 0 1-8.6-3.1 19.5 19.5 0 0 1-6-6A19.8 19.8 0 0 1 2.1 4.2 2 2 0 0 1 4.1 2h3a2 2 0 0 1 2 1.7c.1 1 .4 1.9.7 2.8a2 2 0 0 1-.5 2.1L8 9.9a16 16 0 0 0 6 6l1.3-1.3a2 2 0 0 1 2.1-.4c.9.3 1.8.6 2.8.7a2 2 0 0 1 1.7 2z"/></svg> <a href="tel:+33600000000">06 00 00 00 00</a> <span class="hide-sm">&nbsp;·&nbsp;Lun – Sam : 8h00 – 19h00</span></span>

diff --git a/contact.html b/contact.html
@@ -22,7 +22,7 @@
 </head>
 <body>
 <a class="skip-link" href="#contenu">Aller au contenu</a>
-<a class="promo-strip" href="promotions.html"><svg viewBox="0 0 24 24" fill="none" stroke="currentColor" stroke-width="2" stroke-linecap="round" stroke-linejoin="round" aria-hidden="true"><rect x="3" y="8" width="18" height="4" rx="1"/><path d="M12 8v13M19 12v7a2 2 0 0 1-2 2H7a2 2 0 0 1-2-2v-7"/><path d="M7.5 8a2.5 2.5 0 0 1 0-5C10 3 12 8 12 8s2-5 4.5-5a2.5 2.5 0 0 1 0 5"/></svg><span><strong>Un cadeau offert</strong> pour tout remplacement<span class="hide-xs"> de pare-brise</span></span><span class="promo-strip-cta">En profiter <svg viewBox="0 0 24 24" fill="none" stroke="currentColor" stroke-width="2" stroke-linecap="round" stroke-linejoin="round" aria-hidden="true"><path d="M5 12h14M12 5l7 7-7 7"/></svg></span></a>
+<a class="promo-strip" href="promotions.html"><svg viewBox="0 0 24 24" fill="none" stroke="currentColor" stroke-width="2" stroke-linecap="round" stroke-linejoin="round" aria-hidden="true"><rect x="3" y="8" width="18" height="4" rx="1"/><path d="M12 8v13M19 12v7a2 2 0 0 1-2 2H7a2 2 0 0 1-2-2v-7"/><path d="M7.5 8a2.5 2.5 0 0 1 0-5C10 3 12 8 12 8s2-5 4.5-5a2.5 2.5 0 0 1 0 5"/></svg><span class="hide-xs">Pare-brise <strong>pris en charge par votre assurance</strong> (garantie bris de glace) + <strong>un cadeau offert</strong></span><span class="show-xs"><strong>Pris en charge par l'assurance</strong> + cadeau offert</span><span class="promo-strip-cta">En profiter <svg viewBox="0 0 24 24" fill="none" stroke="currentColor" stroke-width="2" stroke-linecap="round" stroke-linejoin="round" aria-hidden="true"><path d="M5 12h14M12 5l7 7-7 7"/></svg></span></a>
 <div class="topbar"><div class="container">
   <span class="hide-sm"><svg viewBox="0 0 24 24" fill="none" stroke="currentColor" stroke-width="2" stroke-linecap="round" stroke-linejoin="round" aria-hidden="true"><path d="M20 10c0 6-8 12-8 12s-8-6-8-12a8 8 0 0 1 16 0z"/><circle cx="12" cy="10" r="3"/></svg> Basé à Calvisson (30420) · Intervention dans tout le Gard</span>
   <span><svg viewBox="0 0 24 24" fill="none" stroke="currentColor" stroke-width="2" stroke-linecap="round" stroke-linejoin="round" aria-hidden="true"><path d="M22 16.9v3a2 2 0 0 1-2.2 2 19.8 19.8 0 0 1-8.6-3.1 19.5 19.5 0 0 1-6-6A19.8 19.8 0 0 1 2.1 4.2 2 2 0 0 1 4.1 2h3a2 2 0 0 1 2 1.7c.1 1 .4 1.9.7 2.8a2 2 0 0 1-.5 2.1L8 9.9a16 16 0 0 0 6 6l1.3-1.3a2 2 0 0 1 2.1-.4c.9.3 1.8.6 2.8.7a2 2 0 0 1 1.7 2z"/></svg> <a href="tel:+33600000000">06 00 00 00 00</a> <span class="hide-sm">&nbsp;·&nbsp;Lun – Sam : 8h00 – 19h00</span></span>

diff --git a/devis.html b/devis.html
@@ -22,7 +22,7 @@
 </head>
 <body>
 <a class="skip-link" href="#contenu">Aller au contenu</a>
-<a class="promo-strip" href="promotions.html"><svg viewBox="0 0 24 24" fill="none" stroke="currentColor" stroke-width="2" stroke-linecap="round" stroke-linejoin="round" aria-hidden="true"><rect x="3" y="8" width="18" height="4" rx="1"/><path d="M12 8v13M19 12v7a2 2 0 0 1-2 2H7a2 2 0 0 1-2-2v-7"/><path d="M7.5 8a2.5 2.5 0 0 1 0-5C10 3 12 8 12 8s2-5 4.5-5a2.5 2.5 0 0 1 0 5"/></svg><span><strong>Un cadeau offert</strong> pour tout remplacement<span class="hide-xs"> de pare-brise</span></span><span class="promo-strip-cta">En profiter <svg viewBox="0 0 24 24" fill="none" stroke="currentColor" stroke-width="2" stroke-linecap="round" stroke-linejoin="round" aria-hidden="true"><path d="M5 12h14M12 5l7 7-7 7"/></svg></span></a>
+<a class="promo-strip" href="promotions.html"><svg viewBox="0 0 24 24" fill="none" stroke="currentColor" stroke-width="2" stroke-linecap="round" stroke-linejoin="round" aria-hidden="true"><rect x="3" y="8" width="18" height="4" rx="1"/><path d="M12 8v13M19 12v7a2 2 0 0 1-2 2H7a2 2 0 0 1-2-2v-7"/><path d="M7.5 8a2.5 2.5 0 0 1 0-5C10 3 12 8 12 8s2-5 4.5-5a2.5 2.5 0 0 1 0 5"/></svg><span class="hide-xs">Pare-brise <strong>pris en charge par votre assurance</strong> (garantie bris de glace) + <strong>un cadeau offert</strong></span><span class="show-xs"><strong>Pris en charge par l'assurance</strong> + cadeau offert</span><span class="promo-strip-cta">En profiter <svg viewBox="0 0 24 24" fill="none" stroke="currentColor" stroke-width="2" stroke-linecap="round" stroke-linejoin="round" aria-hidden="true"><path d="M5 12h14M12 5l7 7-7 7"/></svg></span></a>
 <div class="topbar"><div class="container">
   <span class="hide-sm"><svg viewBox="0 0 24 24" fill="none" stroke="currentColor" stroke-width="2" stroke-linecap="round" stroke-linejoin="round" aria-hidden="true"><path d="M20 10c0 6-8 12-8 12s-8-6-8-12a8 8 0 0 1 16 0z"/><circle cx="12" cy="10" r="3"/></svg> Basé à Calvisson (30420) · Intervention dans tout le Gard</span>
   <span><svg viewBox="0 0 24 24" fill="none" stroke="currentColor" stroke-width="2" stroke-linecap="round" stroke-linejoin="round" aria-hidden="true"><path d="M22 16.9v3a2 2 0 0 1-2.2 2 19.8 19.8 0 0 1-8.6-3.1 19.5 19.5 0 0 1-6-6A19.8 19.8 0 0 1 2.1 4.2 2 2 0 0 1 4.1 2h3a2 2 0 0 1 2 1.7c.1 1 .4 1.9.7 2.8a2 2 0 0 1-.5 2.1L8 9.9a16 16 0 0 0 6 6l1.3-1.3a2 2 0 0 1 2.1-.4c.9.3 1.8.6 2.8.7a2 2 0 0 1 1.7 2z"/></svg> <a href="tel:+33600000000">06 00 00 00 00</a> <span class="hide-sm">&nbsp;·&nbsp;Lun – Sam : 8h00 – 19h00</span></span>

diff --git a/mentions-legales.html b/mentions-legales.html
@@ -22,7 +22,7 @@
 </head>
 <body>
 <a class="skip-link" href="#contenu">Aller au contenu</a>
-<a class="promo-strip" href="promotions.html"><svg viewBox="0 0 24 24" fill="none" stroke="currentColor" stroke-width="2" stroke-linecap="round" stroke-linejoin="round" aria-hidden="true"><rect x="3" y="8" width="18" height="4" rx="1"/><path d="M12 8v13M19 12v7a2 2 0 0 1-2 2H7a2 2 0 0 1-2-2v-7"/><path d="M7.5 8a2.5 2.5 0 0 1 0-5C10 3 12 8 12 8s2-5 4.5-5a2.5 2.5 0 0 1 0 5"/></svg><span><strong>Un cadeau offert</strong> pour tout remplacement<span class="hide-xs"> de pare-brise</span></span><span class="promo-strip-cta">En profiter <svg viewBox="0 0 24 24" fill="none" stroke="currentColor" stroke-width="2" stroke-linecap="round" stroke-linejoin="round" aria-hidden="true"><path d="M5 12h14M12 5l7 7-7 7"/></svg></span></a>
+<a class="promo-strip" href="promotions.html"><svg viewBox="0 0 24 24" fill="none" stroke="currentColor" stroke-width="2" stroke-linecap="round" stroke-linejoin="round" aria-hidden="true"><rect x="3" y="8" width="18" height="4" rx="1"/><path d="M12 8v13M19 12v7a2 2 0 0 1-2 2H7a2 2 0 0 1-2-2v-7"/><path d="M7.5 8a2.5 2.5 0 0 1 0-5C10 3 12 8 12 8s2-5 4.5-5a2.5 2.5 0 0 1 0 5"/></svg><span class="hide-xs">Pare-brise <strong>pris en charge par votre assurance</strong> (garantie bris de glace) + <strong>un cadeau offert</strong></span><span class="show-xs"><strong>Pris en charge par l'assurance</strong> + cadeau offert</span><span class="promo-strip-cta">En profiter <svg viewBox="0 0 24 24" fill="none" stroke="currentColor" stroke-width="2" stroke-linecap="round" stroke-linejoin="round" aria-hidden="true"><path d="M5 12h14M12 5l7 7-7 7"/></svg></span></a>
 <div class="topbar"><div class="container">
   <span class="hide-sm"><svg viewBox="0 0 24 24" fill="none" stroke="currentColor" stroke-width="2" stroke-linecap="round" stroke-linejoin="round" aria-hidden="true"><path d="M20 10c0 6-8 12-8 12s-8-6-8-12a8 8 0 0 1 16 0z"/><circle cx="12" cy="10" r="3"/></svg> Basé à Calvisson (30420) · Intervention dans tout le Gard</span>
   <span><svg viewBox="0 0 24 24" fill="none" stroke="currentColor" stroke-width="2" stroke-linecap="round" stroke-linejoin="round" aria-hidden="true"><path d="M22 16.9v3a2 2 0 0 1-2.2 2 19.8 19.8 0 0 1-8.6-3.1 19.5 19.5 0 0 1-6-6A19.8 19.8 0 0 1 2.1 4.2 2 2 0 0 1 4.1 2h3a2 2 0 0 1 2 1.7c.1 1 .4 1.9.7 2.8a2 2 0 0 1-.5 2.1L8 9.9a16 16 0 0 0 6 6l1.3-1.3a2 2 0 0 1 2.1-.4c.9.3 1.8.6 2.8.7a2 2 0 0 1 1.7 2z"/></svg> <a href="tel:+33600000000">06 00 00 00 00</a> <span class="hide-sm">&nbsp;·&nbsp;Lun – Sam : 8h00 – 19h00</span></span>

diff --git a/nettoyage-automobile.html b/nettoyage-automobile.html
@@ -22,7 +22,7 @@
 </head>
 <body>
 <a class="skip-link" href="#contenu">Aller au contenu</a>
-<a class="promo-strip" href="promotions.html"><svg viewBox="0 0 24 24" fill="none" stroke="currentColor" stroke-width="2" stroke-linecap="round" stroke-linejoin="round" aria-hidden="true"><rect x="3" y="8" width="18" height="4" rx="1"/><path d="M12 8v13M19 12v7a2 2 0 0 1-2 2H7a2 2 0 0 1-2-2v-7"/><path d="M7.5 8a2.5 2.5 0 0 1 0-5C10 3 12 8 12 8s2-5 4.5-5a2.5 2.5 0 0 1 0 5"/></svg><span><strong>Un cadeau offert</strong> pour tout remplacement<span class="hide-xs"> de pare-brise</span></span><span class="promo-strip-cta">En profiter <svg viewBox="0 0 24 24" fill="none" stroke="currentColor" stroke-width="2" stroke-linecap="round" stroke-linejoin="round" aria-hidden="true"><path d="M5 12h14M12 5l7 7-7 7"/></svg></span></a>
+<a class="promo-strip" href="promotions.html"><svg viewBox="0 0 24 24" fill="none" stroke="currentColor" stroke-width="2" stroke-linecap="round" stroke-linejoin="round" aria-hidden="true"><rect x="3" y="8" width="18" height="4" rx="1"/><path d="M12 8v13M19 12v7a2 2 0 0 1-2 2H7a2 2 0 0 1-2-2v-7"/><path d="M7.5 8a2.5 2.5 0 0 1 0-5C10 3 12 8 12 8s2-5 4.5-5a2.5 2.5 0 0 1 0 5"/></svg><span class="hide-xs">Pare-brise <strong>pris en charge par votre assurance</strong> (garantie bris de glace) + <strong>un cadeau offert</strong></span><span class="show-xs"><strong>Pris en charge par l'assurance</strong> + cadeau offert</span><span class="promo-strip-cta">En profiter <svg viewBox="0 0 24 24" fill="none" stroke="currentColor" stroke-width="2" stroke-linecap="round" stroke-linejoin="round" aria-hidden="true"><path d="M5 12h14M12 5l7 7-7 7"/></svg></span></a>
 <div class="topbar"><div class="container">
   <span class="hide-sm"><svg viewBox="0 0 24 24" fill="none" stroke="currentColor" stroke-width="2" stroke-linecap="round" stroke-linejoin="round" aria-hidden="true"><path d="M20 10c0 6-8 12-8 12s-8-6-8-12a8 8 0 0 1 16 0z"/><circle cx="12" cy="10" r="3"/></svg> Basé à Calvisson (30420) · Intervention dans tout le Gard</span>
   <span><svg viewBox="0 0 24 24" fill="none" stroke="currentColor" stroke-width="2" stroke-linecap="round" stroke-linejoin="round" aria-hidden="true"><path d="M22 16.9v3a2 2 0 0 1-2.2 2 19.8 19.8 0 0 1-8.6-3.1 19.5 19.5 0 0 1-6-6A19.8 19.8 0 0 1 2.1 4.2 2 2 0 0 1 4.1 2h3a2 2 0 0 1 2 1.7c.1 1 .4 1.9.7 2.8a2 2 0 0 1-.5 2.1L8 9.9a16 16 0 0 0 6 6l1.3-1.3a2 2 0 0 1 2.1-.4c.9.3 1.8.6 2.8.7a2 2 0 0 1 1.7 2z"/></svg> <a href="tel:+33600000000">06 00 00 00 00</a> <span class="hide-sm">&nbsp;·&nbsp;Lun – Sam : 8h00 – 19h00</span></span>
